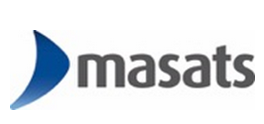
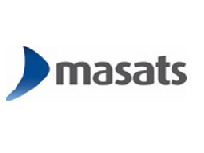
Fixed image size

Changed region(s): [[0.0294, 0.2419, 0.9706, 0.8952]]

diff --git a/src/components/DrawerAppBar.tsx b/src/components/DrawerAppBar.tsx
@@ -10,13 +10,20 @@ import Container from "@mui/material/Container";
 import Button from "@mui/material/Button";
 import MenuItem from "@mui/material/MenuItem";
 import { Grid } from "@mui/material";
-import eurecatLogo from '../assets/logo.png'
+import eurecatLogo from "../assets/logo.png";
 
-const pages = ["Intro", "Technologies", "Projects", 'Demostrators', 'Team', 'Publications'];
+const pages = [
+  "Intro",
+  "Technologies",
+  "Projects",
+  "Demostrators",
+  "Team",
+  "Publications",
+];
 
 export function DrawerAppBar() {
-  const title = 'Applied Artificial Intelligence'
-  const title_sm = 'AAI'
+  const title = "Applied Artificial Intelligence";
+  const title_sm = "AAI";
 
   const [anchorElNav, setAnchorElNav] = React.useState<null | HTMLElement>(
     null
@@ -34,7 +41,7 @@ export function DrawerAppBar() {
     <AppBar position="fixed">
       <Container maxWidth="xl">
         <Toolbar variant="dense">
-        <Typography
+          <Typography
             noWrap
             component="a"
             href="/"
@@ -47,27 +54,45 @@ export function DrawerAppBar() {
               textDecoration: "none",
             }}
           >
-          <Grid container spacing={1}
-          justifyContent="space-evenly"
-          alignItems="center">
-            <Grid item lg={12} style={{
-              textAlign: 'center'
-            }}>
-            <Box component="img" style={{
-              width: '140px',
-
-            }} src={eurecatLogo}/>
+            <Grid
+              container
+              spacing={1}
+              justifyContent="space-evenly"
+              alignItems="center"
+            >
+              <Grid
+                item
+                lg={12}
+                style={{
+                  textAlign: "center",
+                }}
+              >
+                {title}
+              </Grid>
+              <Grid
+                item
+                lg={12}
+                style={{
+                  textAlign: "center",
+                }}
+              >
+                <Box
+                  component="img"
+                  style={{
+                    width: "140px",
+                  }}
+                  src={eurecatLogo}
+                />
+              </Grid>
             </Grid>
-            <Grid item lg={12} style={{
-              textAlign: 'center'
-            }}>
-          
-            {title}
-          </Grid>
-          </Grid>
           </Typography>
 
-          <Box sx={{ flexGrow: 1, display: { xs: "flex", md: "flex", lg: "none" } }}>
+          <Box
+            sx={{
+              flexGrow: 1,
+              display: { xs: "flex", md: "flex", lg: "none" },
+            }}
+          >
             <IconButton
               size="large"
               aria-label="account of current user"
@@ -103,7 +128,16 @@ export function DrawerAppBar() {
               ))}
             </Menu>
           </Box>
-          <Box component="img" sx={{ display: { xs: "flex", md: "flex", lg: "none" }, mr: 3, my: 2, width: '120px' }} src={eurecatLogo}/>
+          <Box
+            component="img"
+            sx={{
+              display: { xs: "flex", md: "flex", lg: "none" },
+              mr: 3,
+              my: 2,
+              width: "120px",
+            }}
+            src={eurecatLogo}
+          />
           <Typography
             variant="h5"
             noWrap
@@ -119,9 +153,14 @@ export function DrawerAppBar() {
               textDecoration: "none",
             }}
           >
-           - {title_sm}
+            - {title_sm}
           </Typography>
-          <Box sx={{ flexGrow: 1, display: { xs: "none", md: "none", lg: "flex" } }}>
+          <Box
+            sx={{
+              flexGrow: 1,
+              display: { xs: "none", md: "none", lg: "flex" },
+            }}
+          >
             {pages.map((page) => (
               <Button
                 key={page}

diff --git a/src/components/MainContent.tsx b/src/components/MainContent.tsx
@@ -7,6 +7,8 @@ import environmental from "../assets/mainsection/environmental.png";
 import industrial from "../assets/mainsection/industrial.png";
 import space from "../assets/mainsection/space.png";
 import water from "../assets/mainsection/water.png";
+import eurecatLogo from "../assets/logo.png";
+
 
 interface ContentProps {
   children: any;
@@ -36,7 +38,30 @@ export function MainContent() {
   return (
     <Content>
       <h1>{title}</h1>
-
+      <Box
+        sx={{
+          px: 2,
+        }}
+      >
+        <Grid container>
+          <Grid item xs={0} lg={3}></Grid>
+          <Grid item xs={12} lg={6}>
+            <Box
+              component="img"
+              sx={{
+                width: {
+                  xs: "95%",
+                  sm: "70%",
+                  md: "50%",
+                  lg: "95%",
+                },
+              }}
+              src={eurecatLogo}
+            />
+          </Grid>
+          <Grid item xs={0} lg={3}></Grid>
+        </Grid>
+      </Box>
       <Box>
         Eurecat's Applied Artificial Intelligence Unit develops innovative
         solutions (algorithms, methods, platforms) based on the combination of
@@ -51,48 +76,47 @@ export function MainContent() {
           pt: 5,
         }}
       >
-        
-          <Grid container spacing={3} justifyContent="center">
-            <Grid item xs={4}>
-              <Box
-                component="img"
-                alt="Image of environmental"
-                src={environmental}
-                sx={{
-                  width: "100%",
-                  pb: 2,
-                }}
-              />
-              <Box
-                component="img"
-                alt="Image of space"
-                src={space}
-                sx={{
-                  width: "100%",
-                }}
-              />
-            </Grid>
-            <Grid item xs={4}>
-              <Box
-                component="img"
-                alt="Image of industrial"
-                src={industrial}
-                sx={{
-                  width: "100%",
-                  pb: 2,
-                }}
-              />
-              <Box
-                component="img"
-                alt="Image of water"
-                src={water}
-                sx={{
-                  width: "100%",
-                  height: "45%",
-                }}
-              />
-            </Grid>
+        <Grid container spacing={3} justifyContent="center">
+          <Grid item xs={5}>
+            <Box
+              component="img"
+              alt="Image of environmental"
+              src={environmental}
+              sx={{
+                width: "100%",
+                pb: 2,
+              }}
+            />
+            <Box
+              component="img"
+              alt="Image of space"
+              src={space}
+              sx={{
+                width: "100%",
+              }}
+            />
           </Grid>
+          <Grid item xs={5}>
+            <Box
+              component="img"
+              alt="Image of industrial"
+              src={industrial}
+              sx={{
+                width: "100%",
+                pb: 2,
+              }}
+            />
+            <Box
+              component="img"
+              alt="Image of water"
+              src={water}
+              sx={{
+                width: "100%",
+                height: "45%",
+              }}
+            />
+          </Grid>
+        </Grid>
       </Box>
       <Box
         sx={{

diff --git a/src/App.tsx b/src/App.tsx
@@ -65,31 +65,6 @@ function App() {
           }}
         >
           <PrimarySection>
-            <Box
-              sx={{
-                px: 2,
-              }}
-            >
-              <Grid container>
-                <Grid item xs={0} lg={4}></Grid>
-                <Grid item xs={12} lg={4}>
-                  <Box
-                    component="img"
-                    sx={{
-                      width: {
-                        xs: "95%",
-                        sm: "70%",
-                        md: "50%",
-                        lg: "95%",
-                      },
-                    }}
-                    src={eurecatLogo}
-                  />
-                </Grid>
-                <Grid item xs={0} lg={4}></Grid>
-              </Grid>
-            </Box>
-
             <MainContent />
           </PrimarySection>
           <Section

diff --git a/src/components/projects/Projects.tsx b/src/components/projects/Projects.tsx
@@ -49,7 +49,7 @@ function ProjectItem(props: ProjectItemProps) {
               alt={imageFrom(props.project)}
               src={props.img}
               sx={{
-                height: "100%"
+                height: "100%",
               }}
             />
             </Link>
